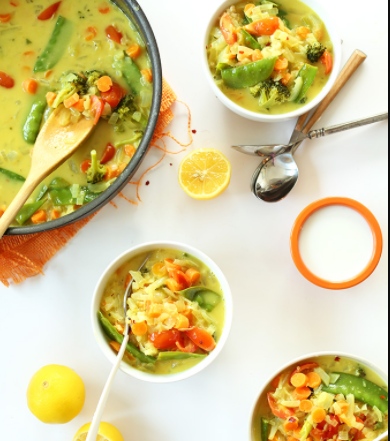
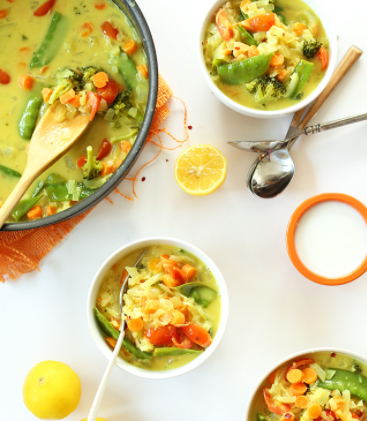
added a better picture for a dish and source image for recipes html plus class

diff --git a/html/recipes.html b/html/recipes.html
@@ -19,7 +19,7 @@
 
    <div class="clearfix">
     <h2>Saucy Moroccan-Spiced Lentils</h2>
-      <img alt="picture of saucy moroccan-spiced lentils" src="https://minimalistbaker.com/wp-content/uploads/2017/11/AMAZING-Moroccan-Spiced-Lentils-Just-30-minutes-required-BIG-flavor-SO-healthy-vegan-plantbased-lentils-recipe-glutenfree-minimalistbaker-4-768x1152.jpg">
+      <img src="../images/moroccanlentils.jpg" alt="picture of saucy moroccan-spiced lentils" class="left" height="430" weight="450">
       <p> Flavorful, 30-minute Moroccan-spiced lentils with paprika, peppers, tomato, and fresh herbs. A healthy plant-based side or addition to bowls and salads!</p>
       <h3> Ingredients</h3>
       <h4>Lentils</h4>
@@ -57,6 +57,7 @@
 
     <div class="clearfix">
       <h2>Vegan Cream of Broccoli Soup</h2>
+      <img src="../images/broccoli-soup.jpeg" alt="picture of bowls of bright green broccoli soup on a sky blue background" class="left" height="430" weight="450">
        <p>The creamiest broccoli soup there ever was...completely healthy, and cruelty-free!</p>
        <h3> Ingredients</h3>
          <ul class="recipes">
@@ -86,7 +87,7 @@
 
    <div class="clearfix">
     <h2>30-Minute Coconut Curry</h2>
-    <img alt="picture of coconut curry dish" src="https://minimalistbaker.com/wp-content/uploads/2014/03/Simple-Coconut-Curry-over-Coconut-Quinoa.jpg">
+    <img src="../images/coconutcurry.png" alt="picture of vibrant vegetable dish in a pot along with sevings in separate bowls" class="left" height="430" weight="450">
       <p>A vegan, gluten free 30-minute curry that’s loaded with veggies and swimming in a perfectly-spiced coconut milk broth. Coconut quinoa sends this over the top. Simple, healthy, fast and so delicious.</p>
       <h3> Ingredients</h3>
         <h4>Curry</h4>
@@ -133,7 +134,7 @@
 
     <div="clearfix">
       <h2>Avocado Pasta</h2>
-        <img alt="picture of avocado pasta dish" src="https://atmedia.imgix.net/df152ee814dd76f96233bc70b197c45e631ddce5?auto=format&q=45&w=398.0&h=265.0&fit=crop&crop=focalpoint&fp-x=0.0612244897959184&fp-y=0.662159822425064&fp-z=1.2&cs=strip">
+        <img src="../images/avocado.jpg" alt="picture of bowl with pasta with avocado and sprinkled with cut up tomato" class="left" height="430" weight="450">
         <p>The easiest, most unbelievably creamy avocado pasta. And it’ll be on your dinner table in just 20 min!</p>
         <h3> Ingredients</h3>
           <ul class="recipes">
@@ -160,7 +161,7 @@
 
      <div class="clearfix">
       <h2> 5 Minute Vegan Pancakes</h2>
-        <img alt="image of pancakes" src="https://img.sndimg.com/food/image/upload/w_707,h_398,c_fill,fl_progressive,q_80/v1/img/recipes/13/22/63/D30C2lxTy6SAflQlb61Q_VP%204%20-%20final_2.jpg">
+        <img src="../images/pancakes.jpg" alt="image of pancakes on a plate, topped with bananas and dripping with sweet sauce" class="left" height="430" weight="450">
         <h3>Ingredients</h3>
           <ul class="recipes">
             <li>1 cup flour (whichever kind you prefer)</li>
